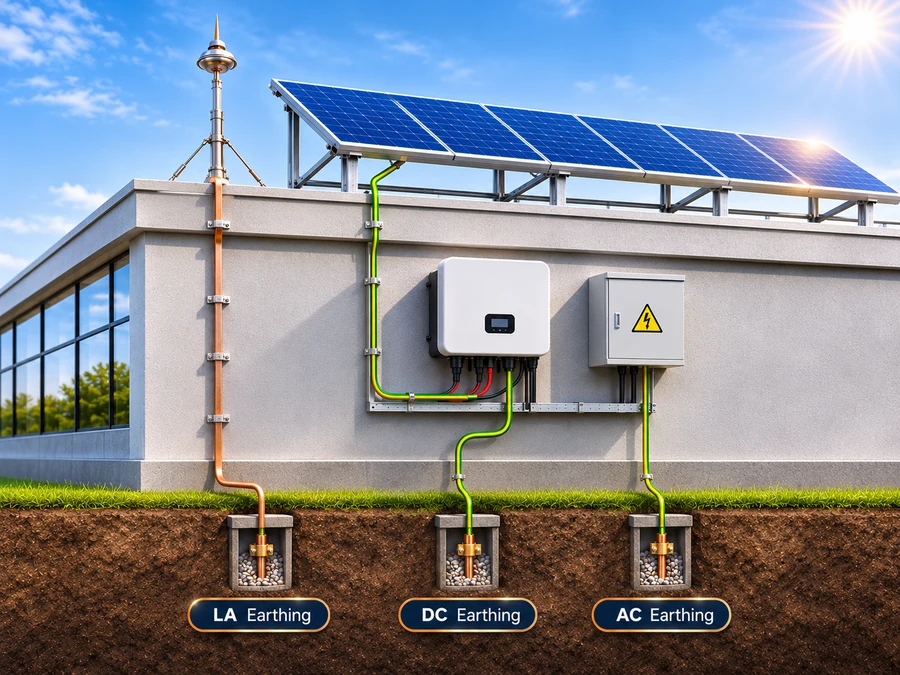
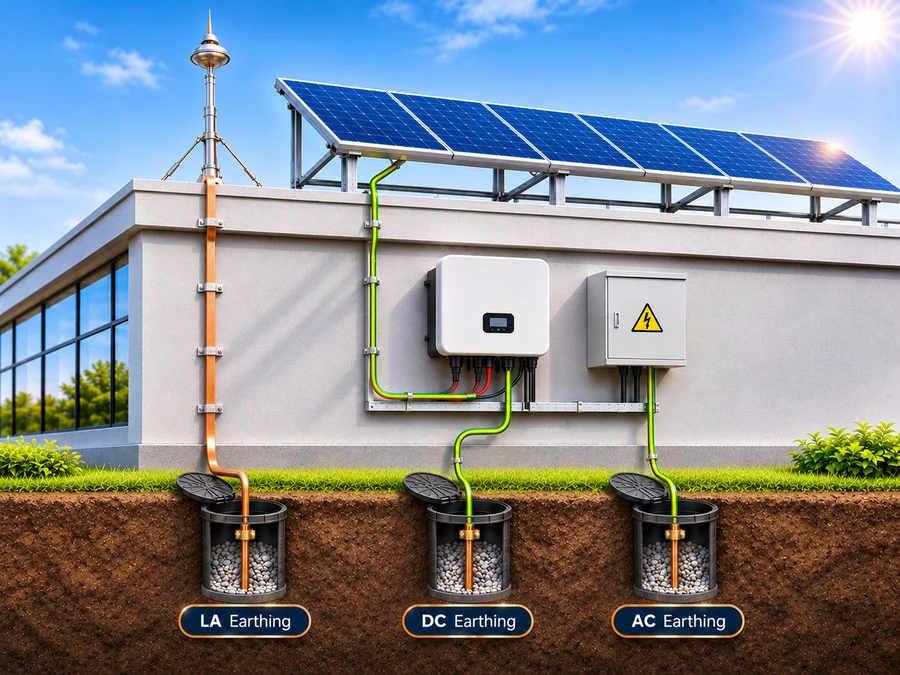
Use supplied earthing and mounting images without cropping

diff --git a/assets/js/proposal-values.js b/assets/js/proposal-values.js
@@ -61,7 +61,7 @@
      cable the sheet names when it does not; earthing is the quiet default. */
   'other:havells':'havells-cable.webp',
   'other:polycab':'polycab-cable.webp',
-  'other:earthing':'earthing.webp',
+  'other:earthing':'../customer/earthing-system.webp',
   'other:acdb':'acdb-dcdb.webp'
  };
  const PHOTO_FALLBACK={
